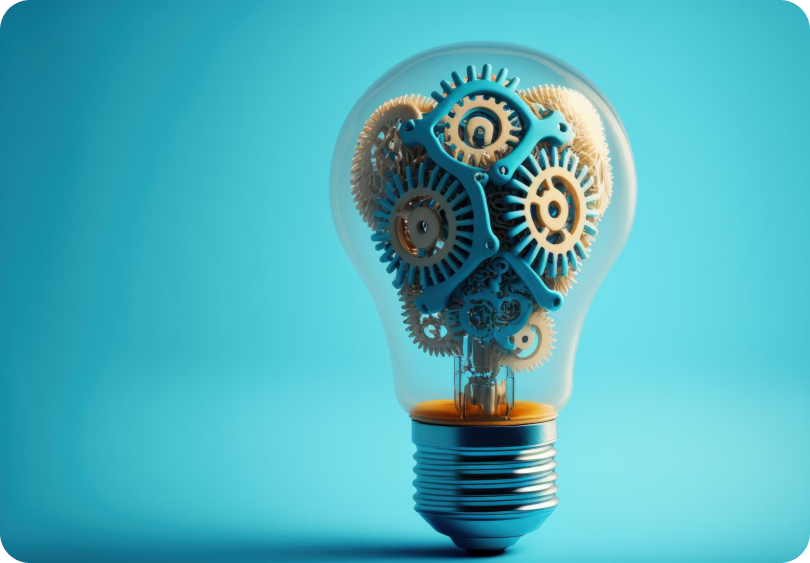
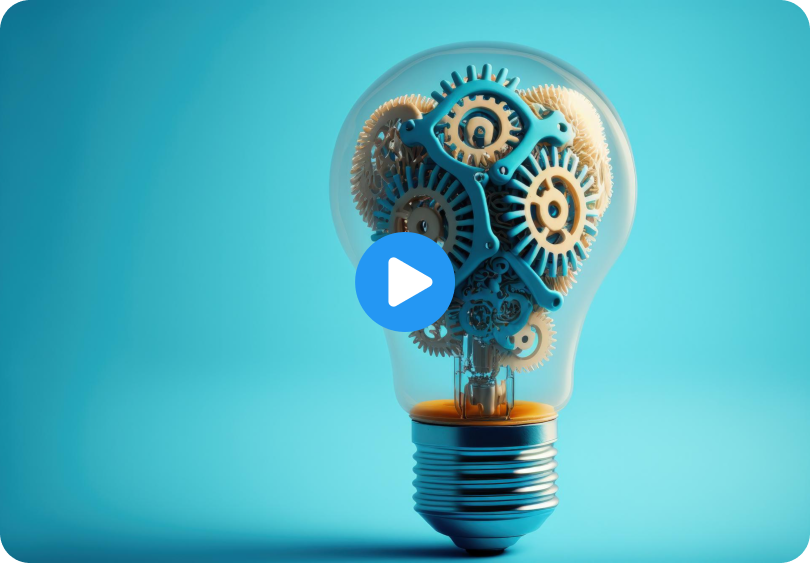
homepage done

Changed region(s): [[0.4321, 0.3925, 0.5864, 0.6039]]

diff --git a/src/components/Homepage/HomeSay.jsx b/src/components/Homepage/HomeSay.jsx
@@ -1,0 +1,59 @@
+import React from 'react'
+import User1 from "@/images/home/user_1.svg"
+import User2 from "@/images/home/user_2.svg"
+import User3 from "@/images/home/user_3.svg"
+import Image from "next/image"
+const HomeSay = () => {
+  const users = [
+    {
+      name: 'John Smith',
+      title: 'Marketing manger at google',
+      img: User1
+    },
+    {
+      name: 'Austin Brewer',
+      title: 'Grapic designer at RISS',
+      img: User2
+    },
+    {
+      name: 'Hammad Ahmed',
+      title: 'Frontend Developer',
+      img: User2
+    },
+  ]
+  return (
+    <div className="m-20 bg-cgray p-20 rounded-xl">
+      <h2 className="text-5xl font-bold">What Our Users Say</h2>
+      <div className="flex mt-16">
+        <div className="w-full space-y-8">
+          {
+            users.map((user, i)=>{
+              return (
+                <div className="flex gap-5 items-center">
+                  <div>
+                    <Image className="w-20" src={user.img} />
+                  </div>
+                  <div>
+                    <p className="text-xl font-semibold">{user.name}</p>
+                    <p className="text-clightGray">{user.title}</p>
+                  </div>
+                </div>
+              )
+            })
+          }
+        </div>
+        <div className="w-full space-y-10">
+          <div >
+            <p className="text-3xl font-bold">Exceptional Service, Incredible Results</p>
+            <p className="mt-3">⭐⭐⭐⭐⭐</p>
+          </div>
+          <p className="text-clightGray">I can't say enough about the outstanding service I received from PhoenEX. Their commitment to excellence, attention to detail, and dedication to customer satisfaction are truly exceptional.</p>
+          <p className="text-clightGray">From the moment I contacted PhoenEX, I was greeted with warmth and professionalism. The entire team worked tirelessly to ensure that my needs were not only met but exceeded. They went above and beyond to make my experience as smooth and pleasant as possible.</p>
+        </div>
+
+      </div>
+    </div>
+  )
+}
+
+export default HomeSay

diff --git a/src/components/Homepage/HomeExplore2.jsx b/src/components/Homepage/HomeExplore2.jsx
@@ -1,0 +1,26 @@
+import React from 'react'
+import Explore2Img from "@/images/home/explore2.png"
+import Image from "next/image"
+
+const HomeExplore2 = () => {
+  return (
+    <div className="m-20 flex gap-20">
+      <div className="space-y-7">
+        <h1>Explore the Excitement</h1>
+        <p className="pt-5">Expand your knowledge horizon with our educational video section. Each video is a gateway to new insights and discoveries, presenting complex concepts.</p>
+        <ol className="list-decimal ml-5">
+          <li><span className="font-semibold text-cblue">Diverse Genres:</span> From heart-pounding adventures to laugh-out-loud moments.</li>
+          <li><span className="font-semibold text-cblue">Captivating Narratives:</span> Stories that keep you on the edge of your seat.</li>
+          <li><span className="font-semibold text-cblue">Stunning Visuals: </span> High-quality production and breathtaking cinematography.</li>
+          <li><span className="font-semibold text-cblue">Curated Selection: </span> Something exciting for everyone.</li>
+        </ol>
+        <button className="blue-btn">Start watching now</button>
+      </div>
+      <div>
+        <Image src={Explore2Img} />
+      </div>
+    </div>
+  )
+}
+
+export default HomeExplore2

diff --git a/src/pages/index.jsx b/src/pages/index.jsx
@@ -7,6 +7,8 @@ import HomeExplore from "@/components/Homepage/HomeExplore"
 import Wave from "@/components/Common/Wave"
 import HomeEdu from "@/components/Homepage/HomeEdu"
 import HomeFundraising from "@/components/Homepage/HomeFundraising"
+import HomeExplore2 from "@/components/Homepage/HomeExplore2"
+import HomeSay from "@/components/Homepage/HomeSay"
 
 const inter = Inter({ subsets: ['latin'] })
 
@@ -19,6 +21,8 @@ export default function Home() {
         <Wave />
         <HomeEdu />
         <HomeFundraising />
+        <HomeExplore2 />
+        <HomeSay />
       </div>
   )
 }
